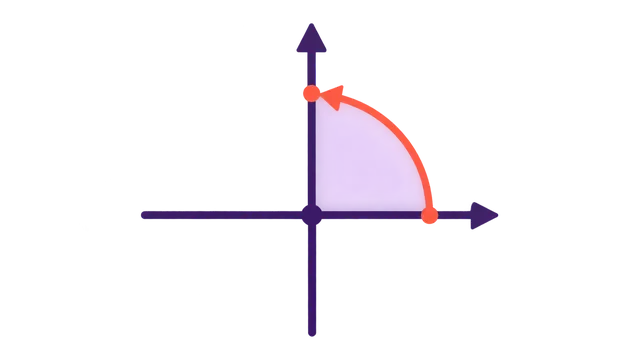
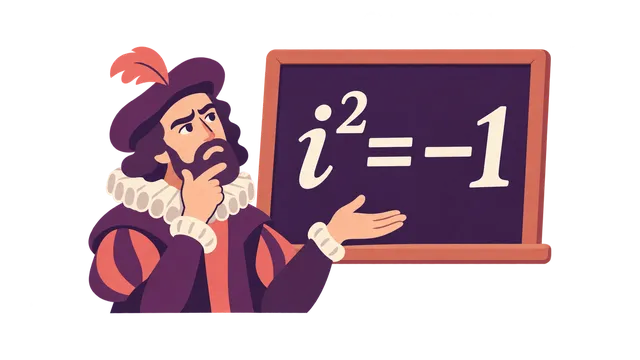
Zpřehlednit ilustraci imaginárních čísel u ID 501

diff --git a/docs/ilustrace-handoff.md b/docs/ilustrace-handoff.md
@@ -10,6 +10,9 @@ Post `014`: regenerated with built-in image_gen as an isolated orange M87 emissi
 Requested ordinal positions 453/451/457/404/501 map to IDs 553/551/557/504/601. Updated motifs: inward light at a black hole; intact magnetar with magnetic loops and no impact; pulsating Cepheid; microscope investigation of microbes; shared meaning expressed as spoken/written STROM. ID 601 is newly available; all five are registered in cards and gallery. Built-in image_gen used true transparency; generation size/quality/cost controls unavailable. All final assets are 640x360 RGBA WebP under 100 kB, with corner alpha 0 and balanced margins; reviewed at 160x90 and 320x180. Exact prompts, hashes, semantic caveats and prior provenance are in manifest. Original article text and metadata remain unchanged.
 
 
+
+ID `501` now shows an anonymous puzzled Renaissance mathematician beside the large equation i² = −1, replacing the unlabeled quarter-turn diagram. Built-in image_gen; transparent RGBA WebP 640x360, 25,758 bytes, corner alpha 0. Reviewed at 160x90 and 320x180. Available in cards and gallery; exact prompt, image hash and previous provenance retained in manifest. Generation size/quality/cost controls unavailable.
+
 ## Rozsah
 
 - Dostupné ilustrace: `001`–`312` a `413`–`571` a `601` (472 souborů, včetně sdílených kopií).
